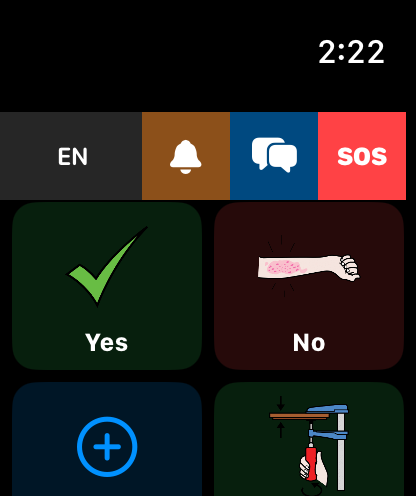
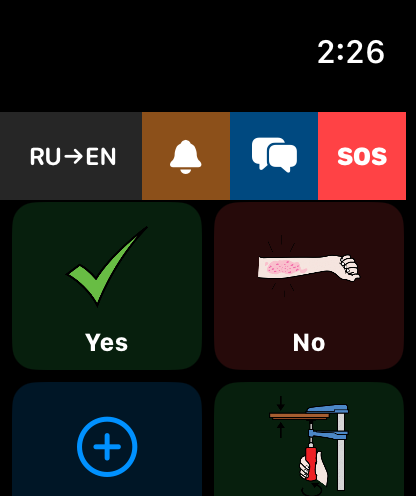
fix(watch): translation from=vocabLanguage, not inputLanguage
Root cause: phrase.label is always English ("Yes", "No") — the offline
core vocabulary is hardcoded in English. But translateAndSpeak() was
called with from=vocab.inputLanguage (e.g. "ru-RU") so the API was
asked to translate English text "from Russian" → wrong result / no
translation.

Fixes:
1. WatchVocabSync.vocabLanguage — new field tracking what language the
   loaded vocabulary labels are actually written in ("en-US" for offline
   core; API-fetched lang when loaded from cloud).

2. translateAndSpeak(from: vocab.vocabLanguage) — phrase.label is in
   vocabLanguage, not inputLanguage. Now:
     EN→RU: "Yes" (en-US) → translate to "Да", speak in Russian ✓
     RU→EN: "Да" (ru-RU) → translate to "Yes", speak in English ✓
     EN→EN: no translation, speak "Yes" in English directly ✓

3. setLanguages(input:output:) loads vocabulary in the INPUT language
   (the AAC user's reading language) not the output language. vocabLanguage
   is set from the API response so translateAndSpeak always has the
   correct source language.

Changed region(s): [[0.0625, 0.2722, 0.2812, 0.3327], [0.75, 0.0605, 0.9375, 0.121]]

diff --git a/ios-native/PrismAACWatch/Sources/AI/WatchVocabSync.swift b/ios-native/PrismAACWatch/Sources/AI/WatchVocabSync.swift
@@ -12,21 +12,27 @@ import WatchConnectivity
 final class WatchVocabSync: NSObject, ObservableObject, WCSessionDelegate {
 
     @Published private(set) var categories: [WatchCategory] = WatchCategory.offlineCore
-    /// Input (typing) language — what the AAC user communicates in.
+    /// Input (typing/selection) language — what the AAC user communicates in.
     @Published var inputLanguage: String = "en-US"
-    /// Output (TTS/translation) language — what is spoken aloud, may differ for translation.
+    /// Output (TTS/translation) language — what is spoken aloud.
     @Published var outputLanguage: String = "en-US"
-    /// Legacy single-language alias for API calls — uses outputLanguage.
+    /// Language the loaded vocabulary labels are written in.
+    /// Offline core = "en-US"; API-loaded = whatever lang was fetched.
+    /// This is the correct `from` parameter for translation — NOT inputLanguage.
+    @Published private(set) var vocabLanguage: String = "en-US"
+    /// Legacy alias.
     var language: String { outputLanguage }
     @Published private(set) var source: Source = .offline
 
     /// Update the language pair and reload vocabulary.
+    /// Vocabulary labels are loaded in `input` language so the AAC user
+    /// can read them in their native language. TTS speaks in `output`.
     func setLanguages(input: String, output: String) {
         inputLanguage = input
         outputLanguage = output
         UserDefaults.standard.set(input,  forKey: "watchInputLanguage")
         UserDefaults.standard.set(output, forKey: "watchOutputLanguage")
-        Task { await loadFromAPI(lang: output) }
+        Task { await loadFromAPI(lang: input) }   // vocab labels in INPUT lang
     }
 
     /// Shorthand: set only output language (input unchanged).
@@ -65,7 +71,7 @@ final class WatchVocabSync: NSObject, ObservableObject, WCSessionDelegate {
             let (data, _) = try await URLSession.shared.data(from: url)
             let vocab = try JSONDecoder().decode(VocabResponse.self, from: data)
             categories = vocab.categories.map { WatchCategory(from: $0) }
-            outputLanguage = vocab.language
+            vocabLanguage = vocab.language   // labels are in this language
             source = .cloud
         } catch {
             // Keep offline core — never leave user without communication

diff --git a/ios-native/PrismAACWatch/Sources/Views/WatchPictogramCards.swift b/ios-native/PrismAACWatch/Sources/Views/WatchPictogramCards.swift
@@ -127,7 +127,7 @@ struct WatchPictogramCards: View {
                             // Translate if output language differs from input
                             translation.translateAndSpeak(
                                 text: phrase.label,
-                                from: vocab.inputLanguage,
+                                from: vocab.vocabLanguage,  // language of the label text ("en-US" for offline core)
                                 to: vocab.outputLanguage,
                                 tts: tts
                             )
